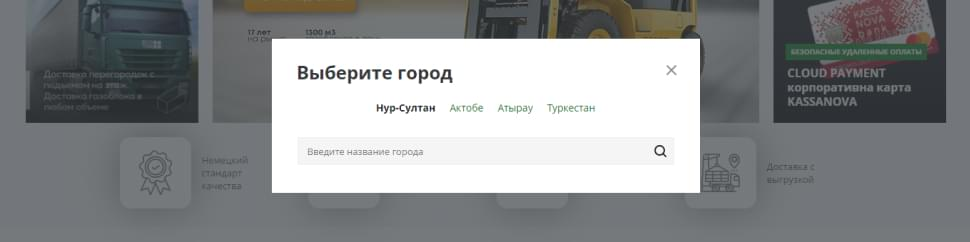
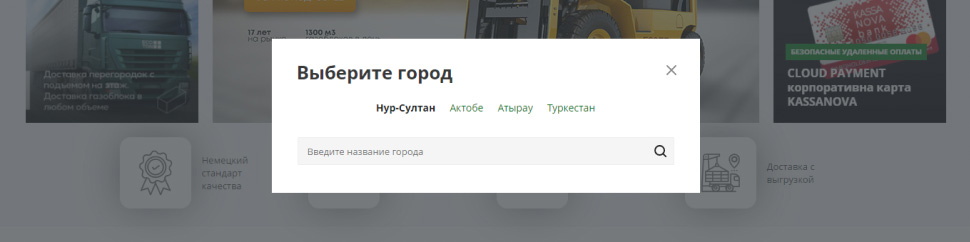
fix

Changed region(s): [[0.3711, 0.4339, 0.6186, 0.4628], [0.3093, 0.2893, 0.4639, 0.3471], [0.3711, 0.6074, 0.433, 0.6364]]

diff --git a/app/css/app.min.css b/app/css/app.min.css
@@ -1,1 +1,1 @@
-@font-face{font-family:Montserrat;src:url(../fonts/Montserrat-Thin.woff2),url(../fonts/Montserrat-Thin.woff) format("woff");font-weight:300;font-display:swap;font-style:normal}@font-face{font-family:Montserrat;src:url(../fonts/Montserrat-Regular.woff2),url(../fonts/Montserrat-Regular.woff) format("woff");font-weight:400;font-display:swap;font-style:normal}@font-face{font-family:Montserrat;src:url(../fonts/Montserrat-Medium.woff2),url(../fonts/Montserrat-Medium.woff) format("woff");font-weight:500;font-display:swap;font-style:normal}@font-face{font-family:Montserrat;src:url(../fonts/Montserrat-ExtraBold.woff2),url(../fonts/Montserrat-ExtraBold.woff) format("woff");font-weight:700;font-display:swap;font-style:normal}html{line-height:1.15;-webkit-text-size-adjust:100%}body{margin:0}main{display:block}h1{font-size:2em;margin:.67em 0}hr{-webkit-box-sizing:content-box;box-sizing:content-box;height:0;overflow:visible}pre{font-family:monospace,monospace;font-size:1em}a{background-color:transparent}abbr[title]{border-bottom:none;text-decoration:underline;-webkit-text-decoration:underline dotted;text-decoration:underline dotted}b,strong{font-weight:bolder}code,kbd,samp{font-family:monospace,monospace;font-size:1em}small{font-size:80%}sub,sup{font-size:75%;line-height:0;position:relative;vertical-align:baseline}sub{bottom:-.25em}sup{top:-.5em}img{border-style:none}button,input,optgroup,select,textarea{font-family:inherit;font-size:100%;line-height:1.15;margin:0}button,input{overflow:visible}button,select{text-transform:none}[type=button],[type=reset],[type=submit],button{-webkit-appearance:button}[type=button]::-moz-focus-inner,[type=reset]::-moz-focus-inner,[type=submit]::-moz-focus-inner,button::-moz-focus-inner{border-style:none;padding:0}[type=button]:-moz-focusring,[type=reset]:-moz-focusring,[type=submit]:-moz-focusring,button:-moz-focusring{outline:1px dotted ButtonText}fieldset{padding:.35em .75em .625em}legend{-webkit-box-sizing:border-box;box-sizing:border-box;color:inherit;display:table;max-width:100%;padding:0;white-space:normal}progress{vertical-align:baseline}textarea{overflow:auto}[type=checkbox],[type=radio]{-webkit-box-sizing:border-box;box-sizing:border-box;padding:0}[type=number]::-webkit-inner-spin-button,[type=number]::-webkit-outer-spin-button{height:auto}[type=search]{-webkit-appearance:textfield;outline-offset:-2px}[type=search]::-webkit-search-decoration{-webkit-appearance:none}::-webkit-file-upload-button{-webkit-appearance:button;font:inherit}details{display:block}summary{display:list-item}template{display:none}[hidden]{display:none}html{-webkit-box-sizing:border-box;box-sizing:border-box;overflow-x:hidden}*,:after,:before{-webkit-box-sizing:inherit;box-sizing:inherit;font-family:Montserrat,sans-serif;font-weight:400}a{text-decoration:none;color:inherit}li,ol,ul{list-style:none;margin:0;padding:0}p{margin:0;font-size:17px;font-weight:400;line-height:24px}h1,h2,h3,h4,h5,h6{margin:0;font-size:inherit}body{font-family:Montserrat,sans-serif;color:#363031;min-width:320px;position:relative;overflow-x:hidden}strong{font-weight:700}button{font-family:Montserrat;font-weight:600;cursor:pointer;border:none;background-color:transparent}button:focus{outline:0}img{max-width:100%}h1.title{font-size:60px;font-weight:700;line-height:73px}h2.title{font-weight:700;font-size:60px;line-height:73px}h3.title{font-weight:700;font-size:24px;line-height:28px}.container{max-width:1185px;padding:0 15px;margin:0 auto;overflow:hidden}.container-content{max-width:980px;padding:0 15px;margin:0 auto;overflow-x:hidden}.text{font-size:18px;font-weight:400;line-height:28px}.text--medium{font-weight:500;font-size:24px;line-height:36px}.btn{display:-webkit-box;display:-ms-flexbox;display:flex;color:#fff;width:270px;height:50px;-webkit-box-pack:center;-ms-flex-pack:center;justify-content:center;-webkit-box-align:center;-ms-flex-align:center;align-items:center;-webkit-transition:.2s ease-in-out;-o-transition:.2s ease-in-out;transition:.2s ease-in-out}.btn--green{background-color:#009645}.btn--green:hover{background-color:#45bd7d}.visually-hidden{position:absolute;clip:rect(0 0 0 0);width:1px;height:1px;margin:-1px}.hidden{position:relative;width:1px;height:1px;opacity:0;font-size:0}.intro{background-image:url(../images/src/intro-bg.jpg);background-size:cover;background-position:center;padding:160px 0 77px}.intro-main__inner{position:relative;max-width:970px;background:#fff;opacity:.8;-webkit-box-shadow:0 10px 20px rgba(0,0,0,.15);box-shadow:0 10px 20px rgba(0,0,0,.15);padding:85px 15px;margin:0 auto;text-align:center}.intro-main__inner::before{content:url(../images/src/brick.png);position:absolute;top:-135px;left:50%;-webkit-transform:translateX(-75%);-ms-transform:translateX(-75%);transform:translateX(-75%)}.intro-main__title{margin-bottom:15px}.intro-main__subtitle{position:relative;padding-bottom:30px;margin:0 auto 15px;max-width:770px;font-weight:700;font-size:22px;line-height:28px}.intro-main__subtitle:after{content:"";position:absolute;background-color:#363031;width:150px;height:2px;bottom:0;left:50%;-webkit-transform:translateX(-50%);-ms-transform:translateX(-50%);transform:translateX(-50%)}.intro-main__text{max-width:580px;margin:0 auto}.intro-main__link{display:inline-block;color:#009645;margin-top:53px;padding-left:35px;position:relative}.intro-main__link:before{content:"";position:absolute;top:-3px;left:0;background-image:url(../images/src/link.svg);width:21px;height:21px}.intro-main__link:hover{text-decoration:underline}.goals__inner{padding:15px 0 80px}.card{display:-webkit-box;display:-ms-flexbox;display:flex;-ms-flex-wrap:wrap;flex-wrap:wrap}.card__item{overflow:hidden;width:570px;height:570px;max-width:48%;margin:15px 15px 0 0;padding:0 100px;color:#fff}.card-item:first-child{background-color:#009645}.card-item:nth-child(2){background-color:#009645;padding:55px 60px 60px;display:-webkit-box;display:-ms-flexbox;display:flex;-webkit-box-pack:justify;-ms-flex-pack:justify;justify-content:space-between;-webkit-box-orient:vertical;-webkit-box-direction:normal;-ms-flex-direction:column;flex-direction:column;position:relative}.card-item:nth-child(2):hover .card-item__ecoton{-webkit-transform:scale(1.2);-ms-transform:scale(1.2);transform:scale(1.2)}.card-item:nth-child(2):hover::before{-webkit-transform:scale(1.2);-ms-transform:scale(1.2);transform:scale(1.2)}.card-item:nth-child(2)::before{content:'';position:absolute;top:0;left:0;width:100%;height:100%;background-image:url(../images/src/card-bg.jpg);-webkit-transition:all .7s;-o-transition:all .7s;transition:all .7s}.card-item:nth-child(3){background-image:url(../images/src/moon-bg.jpg);position:relative}.card-item:nth-child(3) img{position:absolute;bottom:0;right:0}.card-item:nth-child(4){background-color:#363031;color:#fff;height:inherit;display:-webkit-box;display:-ms-flexbox;display:flex;-webkit-box-orient:vertical;-webkit-box-direction:normal;-ms-flex-direction:column;flex-direction:column;-webkit-box-pack:justify;-ms-flex-pack:justify;justify-content:space-between}.card-item:nth-child(4) .card-item__title{margin-bottom:40px}.card-item:nth-child(4) .slider__text{max-width:270px;margin-top:30px}.card-item:nth-child(4) .slider__icon{border-radius:100%}.card-item__inner{display:-webkit-box;display:-ms-flexbox;display:flex;-webkit-box-orient:vertical;-webkit-box-direction:normal;-ms-flex-direction:column;flex-direction:column;-webkit-box-pack:center;-ms-flex-pack:center;justify-content:center;height:100%}.card-item__title{margin-bottom:35px}.card-item__ecoton{width:247px;margin:0 auto;z-index:2;-webkit-transition:all .7s;-o-transition:all .7s;transition:all .7s}.card-item__bottom{z-index:2}.card-item__bottom .card-top__span{display:-webkit-box;display:-ms-flexbox;display:flex;-webkit-box-orient:horizontal;-webkit-box-direction:reverse;-ms-flex-direction:row-reverse;flex-direction:row-reverse}.card-top{display:-webkit-box;display:-ms-flexbox;display:flex;-webkit-box-pack:justify;-ms-flex-pack:justify;justify-content:space-between;-webkit-box-align:center;-ms-flex-align:center;align-items:center;width:100%;z-index:2}.card-top__span{font-weight:300;font-size:42px;line-height:28px;color:#fff}.swiper-button-next:after{content:url(../images/src/slider-arrow.svg);width:16.5px}.swiper-container{max-width:400px}.start{background-image:url(../images/src/start-bg.jpg);background-repeat:no-repeat;background-size:cover}.start-top{padding-top:70px}.start-top__inner{display:-webkit-box;display:-ms-flexbox;display:flex;-webkit-box-pack:justify;-ms-flex-pack:justify;justify-content:space-between}.start-top__left{max-width:572px}.start-top__right{margin-top:auto}.start-top__title{margin-bottom:25px}.start-top__descr{margin-top:30px;font-family:Roboto,sans-serif}.start-top__logo{position:relative}.start-top__logo .logo-ecoton{position:absolute;top:50%;left:50%;-webkit-transform:translateX(-50%) translateY(-50%);-ms-transform:translateX(-50%) translateY(-50%);transform:translateX(-50%) translateY(-50%)}.start-top__logo .logo-wrap{-webkit-animation:rotate 10s linear infinite}.start .container-content{overflow:visible}.start .container-content__img{display:-webkit-box;display:-ms-flexbox;display:flex;-webkit-box-pack:center;-ms-flex-pack:center;justify-content:center;overflow:visible;z-index:5;-webkit-transform:translateY(65px);-ms-transform:translateY(65px);transform:translateY(65px)}.start .container-content__img img{overflow:visible;z-index:5;-webkit-box-shadow:0 4px 15px rgba(0,0,0,.15);box-shadow:0 4px 15px rgba(0,0,0,.15)}@-webkit-keyframes rotate{from{-webkit-transform:rotate(360deg);transform:rotate(360deg)}to{-webkit-transform:rotate(0);transform:rotate(0)}}@keyframes rotate{from{-webkit-transform:rotate(360deg);transform:rotate(360deg)}to{-webkit-transform:rotate(0);transform:rotate(0)}}.process .container{overflow:visible}.process__title{margin:145px 0 35px}.process__card .card-item:nth-child(4) .card-item__title{margin-bottom:0}.process-item__title{margin-bottom:0}.process-item__text{margin-top:12px}.process-item__images{margin:0 15px;-webkit-box-shadow:0 4px 15px rgba(0,0,0,.15);box-shadow:0 4px 15px rgba(0,0,0,.15);width:30%}.process-item__row{display:-webkit-box;display:-ms-flexbox;display:flex;-webkit-box-pack:center;-ms-flex-pack:center;justify-content:center}.process-item__container{max-width:785px;margin:0 auto}.process-item__container.process-item__text{margin:60px auto 60px}.process-item__container.card-item__inner{margin:45px auto 60px}.process-item__container.text{margin-top:60px;margin-bottom:50px;display:block;font-weight:700}.process-item__btn{margin:40px 0 80px;display:-webkit-box;display:-ms-flexbox;display:flex;-webkit-box-pack:center;-ms-flex-pack:center;justify-content:center}.process__wrapper--cream{background-color:#f9f9fa}.process__wrapper--cream .process-item{display:-webkit-box;display:-ms-flexbox;display:flex;position:relative}.process__wrapper--cream .process-item:nth-child(1){margin-bottom:60px}.process__wrapper--cream .process-item:nth-child(2) .card-item__inner{margin-bottom:100px}.process__wrapper--cream .process-item:nth-child(2) .process-item__right-image{top:78px}.process__wrapper--cream .process-item:nth-child(2) .process__tablet{top:115px}.process__wrapper--cream .process-item__content{max-width:357px;margin:80px 0 0 100px}.process__wrapper--cream .process-item__title{max-width:255px;line-height:32px!important}.process__wrapper--cream .process-item__block--green{position:relative;margin-top:65px;margin-left:60px;z-index:3px}.process__wrapper--cream .process-item__block--green .text{padding:30px 30px 35px;background-color:#009645;color:#fff;font-size:14px;font-weight:700;max-width:600px}.process__wrapper--cream .process-item__right-image{position:absolute;overflow:visible;top:180px;right:-215px;min-width:885px;height:auto}.process__wrapper--cream .process__tablet{position:absolute;bottom:-90px}.process__wrapper--cream .process__worker{position:absolute;top:93px;right:-48px}.process__wrapper--cream .process__truck{position:absolute;bottom:-60px;right:-41px}.process-list__item{padding-left:65px;position:relative;margin-bottom:35px}.process-list__item:hover::before{-webkit-transform:scale(1.3);-ms-transform:scale(1.3);transform:scale(1.3)}.process-list__item:before{content:"";position:absolute;top:-6px;left:0;width:50px;height:45px;background-repeat:no-repeat;-webkit-transition:.2s;-o-transition:.2s;transition:.2s}.process-list__item:nth-child(1)::before{background-image:url(../images/src/icon-optimization-1.svg)}.process-list__item:nth-child(2)::before{background-image:url(../images/src/icon-optimization-2.svg)}.process-list__item:nth-child(3)::before{background-image:url(../images/src/icon-optimization-3.svg)}.process-list__item:nth-child(4)::before{top:-1px;background-image:url(../images/src/icon-optimization-4.svg)}.process-list__item:nth-child(5)::before{background-image:url(../images/src/icon-optimization-5.svg)}.card-item:nth-child(2):hover .card-item__aspro{-webkit-transform:scale(1.2);-ms-transform:scale(1.2);transform:scale(1.2)}.card-item__number{font-family:Roboto;font-weight:700;font-size:42px;line-height:28px;margin-bottom:30px}.card-item__text--bold{font-size:18px;line-height:28px}.card-item__text{margin-top:22px}.card-item__aspro{display:-webkit-box;display:-ms-flexbox;display:flex;-webkit-box-pack:center;-ms-flex-pack:center;justify-content:center;-webkit-box-align:center;-ms-flex-align:center;align-items:center;-webkit-transition:.7s;-o-transition:.7s;transition:.7s;height:inherit}.card-item__aspro img{width:135px;z-index:2}.result{background-image:url(../images/src/footer-bg.jpg);background-repeat:no-repeat;background-size:cover}.result__inner{padding:65px 0 120px}.result__title{margin-bottom:25px;font-family:Roboto,sans-serif;font-weight:700;font-size:60px;line-height:70px;color:#000}.result__text{font-family:Roboto;font-weight:500;font-size:24px;line-height:36px;color:#000;margin-bottom:55px}.result__logo{display:block;margin-top:120px;margin-left:-20px}.result__btn{margin:0 auto}
+@font-face{font-family:Montserrat;src:url(../fonts/Montserrat-Thin.woff2),url(../fonts/Montserrat-Thin.woff) format("woff");font-weight:300;font-display:swap;font-style:normal}@font-face{font-family:Montserrat;src:url(../fonts/Montserrat-Regular.woff2),url(../fonts/Montserrat-Regular.woff) format("woff");font-weight:400;font-display:swap;font-style:normal}@font-face{font-family:Montserrat;src:url(../fonts/Montserrat-Medium.woff2),url(../fonts/Montserrat-Medium.woff) format("woff");font-weight:500;font-display:swap;font-style:normal}@font-face{font-family:Montserrat;src:url(../fonts/Montserrat-ExtraBold.woff2),url(../fonts/Montserrat-ExtraBold.woff) format("woff");font-weight:700;font-display:swap;font-style:normal}html{line-height:1.15;-webkit-text-size-adjust:100%}body{margin:0}main{display:block}h1{font-size:2em;margin:.67em 0}hr{-webkit-box-sizing:content-box;box-sizing:content-box;height:0;overflow:visible}pre{font-family:monospace,monospace;font-size:1em}a{background-color:transparent}abbr[title]{border-bottom:none;text-decoration:underline;-webkit-text-decoration:underline dotted;text-decoration:underline dotted}b,strong{font-weight:bolder}code,kbd,samp{font-family:monospace,monospace;font-size:1em}small{font-size:80%}sub,sup{font-size:75%;line-height:0;position:relative;vertical-align:baseline}sub{bottom:-.25em}sup{top:-.5em}img{border-style:none}button,input,optgroup,select,textarea{font-family:inherit;font-size:100%;line-height:1.15;margin:0}button,input{overflow:visible}button,select{text-transform:none}[type=button],[type=reset],[type=submit],button{-webkit-appearance:button}[type=button]::-moz-focus-inner,[type=reset]::-moz-focus-inner,[type=submit]::-moz-focus-inner,button::-moz-focus-inner{border-style:none;padding:0}[type=button]:-moz-focusring,[type=reset]:-moz-focusring,[type=submit]:-moz-focusring,button:-moz-focusring{outline:1px dotted ButtonText}fieldset{padding:.35em .75em .625em}legend{-webkit-box-sizing:border-box;box-sizing:border-box;color:inherit;display:table;max-width:100%;padding:0;white-space:normal}progress{vertical-align:baseline}textarea{overflow:auto}[type=checkbox],[type=radio]{-webkit-box-sizing:border-box;box-sizing:border-box;padding:0}[type=number]::-webkit-inner-spin-button,[type=number]::-webkit-outer-spin-button{height:auto}[type=search]{-webkit-appearance:textfield;outline-offset:-2px}[type=search]::-webkit-search-decoration{-webkit-appearance:none}::-webkit-file-upload-button{-webkit-appearance:button;font:inherit}details{display:block}summary{display:list-item}template{display:none}[hidden]{display:none}html{-webkit-box-sizing:border-box;box-sizing:border-box;overflow-x:hidden}*,:after,:before{-webkit-box-sizing:inherit;box-sizing:inherit;font-family:Montserrat,sans-serif;font-weight:400}a{text-decoration:none;color:inherit}li,ol,ul{list-style:none;margin:0;padding:0}p{margin:0;font-size:17px;font-weight:400;line-height:24px}h1,h2,h3,h4,h5,h6{margin:0;font-size:inherit}body{font-family:Montserrat,sans-serif;color:#363031;min-width:320px;position:relative;overflow-x:hidden}strong{font-weight:700}button{font-family:Montserrat;font-weight:600;cursor:pointer;border:none;background-color:transparent}button:focus{outline:0}img{max-width:100%}h1.title{font-size:60px;font-weight:700;line-height:73px}h2.title{font-weight:700;font-size:60px;line-height:73px}h3.title{font-weight:700;font-size:24px;line-height:28px}.container{max-width:1185px;padding:0 15px;margin:0 auto;overflow:hidden}.container-content{max-width:980px;padding:0 15px;margin:0 auto;overflow-x:hidden}.text{font-family:Roboto,sans-serif;font-size:18px;font-weight:400;line-height:28px}.text--medium{font-family:Roboto,sans-serif;font-weight:500;font-size:24px;line-height:36px}.btn{display:-webkit-box;display:-ms-flexbox;display:flex;color:#fff;width:270px;height:50px;-webkit-box-pack:center;-ms-flex-pack:center;justify-content:center;-webkit-box-align:center;-ms-flex-align:center;align-items:center;-webkit-transition:.2s ease-in-out;-o-transition:.2s ease-in-out;transition:.2s ease-in-out}.btn--green{background-color:#009645}.btn--green:hover{background-color:#45bd7d}.intro{background-image:url(../images/src/intro-bg.jpg);background-size:cover;background-position:center;padding:160px 0 77px}.intro-main__inner{position:relative;max-width:970px;background:#fff;opacity:.8;-webkit-box-shadow:0 10px 20px rgba(0,0,0,.15);box-shadow:0 10px 20px rgba(0,0,0,.15);padding:85px 15px;margin:0 auto;text-align:center}.intro-main__inner::before{content:url(../images/src/brick.png);position:absolute;top:-135px;left:50%;-webkit-transform:translateX(-75%);-ms-transform:translateX(-75%);transform:translateX(-75%)}.intro-main__title{margin-bottom:15px}.intro-main__subtitle{position:relative;padding-bottom:30px;margin:0 auto 15px;max-width:770px;font-weight:700;font-size:22px;line-height:28px}.intro-main__subtitle:after{content:"";position:absolute;background-color:#363031;width:150px;height:2px;bottom:0;left:50%;-webkit-transform:translateX(-50%);-ms-transform:translateX(-50%);transform:translateX(-50%)}.intro-main__text{max-width:580px;margin:0 auto;font-size:16px}.intro-main__link{display:inline-block;color:#009645;margin-top:53px;padding-left:35px;position:relative}.intro-main__link:before{content:"";position:absolute;top:-3px;left:0;background-image:url(../images/src/link.svg);width:21px;height:21px}.intro-main__link:hover{text-decoration:underline}.goals__inner{padding:15px 0 80px}.card{display:-webkit-box;display:-ms-flexbox;display:flex;-ms-flex-wrap:wrap;flex-wrap:wrap}.card__item{overflow:hidden;width:570px;height:570px;max-width:48%;margin:15px 15px 0 0;padding:0 100px;color:#fff}.card-item__text{margin-top:0}.card-item:first-child{background-color:#009645}.card-item:nth-child(2){background-color:#009645;padding:55px 60px 60px;display:-webkit-box;display:-ms-flexbox;display:flex;-webkit-box-pack:justify;-ms-flex-pack:justify;justify-content:space-between;-webkit-box-orient:vertical;-webkit-box-direction:normal;-ms-flex-direction:column;flex-direction:column;position:relative}.card-item:nth-child(2):hover .card-item__ecoton{-webkit-transform:scale(1.2);-ms-transform:scale(1.2);transform:scale(1.2)}.card-item:nth-child(2):hover::before{-webkit-transform:scale(1.2);-ms-transform:scale(1.2);transform:scale(1.2)}.card-item:nth-child(2)::before{content:'';position:absolute;top:0;left:0;width:100%;height:100%;background-image:url(../images/src/card-bg.jpg);-webkit-transition:all .7s;-o-transition:all .7s;transition:all .7s}.card-item:nth-child(3){background-image:url(../images/src/moon-bg.jpg);position:relative}.card-item:nth-child(3) img{position:absolute;bottom:0;right:0}.card-item:nth-child(4){background-color:#363031;color:#fff;height:inherit;display:-webkit-box;display:-ms-flexbox;display:flex;-webkit-box-orient:vertical;-webkit-box-direction:normal;-ms-flex-direction:column;flex-direction:column;-webkit-box-pack:justify;-ms-flex-pack:justify;justify-content:space-between}.card-item:nth-child(4) .card-item__title{margin-bottom:40px}.card-item:nth-child(4) .slider__text{max-width:270px;margin-top:30px}.card-item:nth-child(4) .slider__icon{border-radius:100%}.card-item__inner{display:-webkit-box;display:-ms-flexbox;display:flex;-webkit-box-orient:vertical;-webkit-box-direction:normal;-ms-flex-direction:column;flex-direction:column;-webkit-box-pack:center;-ms-flex-pack:center;justify-content:center;height:100%}.card-item__title{margin-bottom:35px}.card-item__ecoton{width:247px;margin:0 auto;z-index:2;-webkit-transition:all .7s;-o-transition:all .7s;transition:all .7s}.card-item__bottom{z-index:2}.card-item__bottom .card-top__span{display:-webkit-box;display:-ms-flexbox;display:flex;-webkit-box-orient:horizontal;-webkit-box-direction:reverse;-ms-flex-direction:row-reverse;flex-direction:row-reverse}.card-top{display:-webkit-box;display:-ms-flexbox;display:flex;-webkit-box-pack:justify;-ms-flex-pack:justify;justify-content:space-between;-webkit-box-align:center;-ms-flex-align:center;align-items:center;width:100%;z-index:2}.card-top__span{font-weight:300;font-size:42px;line-height:28px;color:#fff}.swiper-button-next:after{content:url(../images/src/slider-arrow.svg);width:16.5px}.swiper-container{max-width:400px}.start{background-image:url(../images/src/start-bg.jpg);background-repeat:no-repeat;background-size:cover}.start-top{padding-top:70px}.start-top__inner{display:-webkit-box;display:-ms-flexbox;display:flex;-webkit-box-pack:justify;-ms-flex-pack:justify;justify-content:space-between}.start-top__left{max-width:572px}.start-top__right{margin-top:auto}.start-top__title{margin-bottom:25px}.start-top__descr{margin-top:30px;font-family:Roboto,sans-serif}.start-top__logo{position:relative}.start-top__logo .logo-ecoton{position:absolute;top:50%;left:50%;-webkit-transform:translateX(-50%) translateY(-50%);-ms-transform:translateX(-50%) translateY(-50%);transform:translateX(-50%) translateY(-50%)}.start-top__logo .logo-wrap{-webkit-animation:rotate 10s linear infinite}.start .container-content{overflow:visible}.start .container-content__img{display:-webkit-box;display:-ms-flexbox;display:flex;-webkit-box-pack:center;-ms-flex-pack:center;justify-content:center;overflow:visible;z-index:5;-webkit-transform:translateY(65px);-ms-transform:translateY(65px);transform:translateY(65px)}.start .container-content__img img{overflow:visible;z-index:5;-webkit-box-shadow:0 4px 15px rgba(0,0,0,.15);box-shadow:0 4px 15px rgba(0,0,0,.15)}@-webkit-keyframes rotate{from{-webkit-transform:rotate(360deg);transform:rotate(360deg)}to{-webkit-transform:rotate(0);transform:rotate(0)}}@keyframes rotate{from{-webkit-transform:rotate(360deg);transform:rotate(360deg)}to{-webkit-transform:rotate(0);transform:rotate(0)}}.process .container{overflow:visible}.process__title{margin:145px 0 35px}.process__card .card-item:nth-child(4) .card-item__title{margin-bottom:0}.process-item__title{margin-bottom:0}.process-item__text{margin-top:12px}.process-item__images{margin:0 15px;-webkit-box-shadow:0 4px 15px rgba(0,0,0,.15);box-shadow:0 4px 15px rgba(0,0,0,.15);width:30%}.process-item__row{display:-webkit-box;display:-ms-flexbox;display:flex;-webkit-box-pack:center;-ms-flex-pack:center;justify-content:center}.process-item__container{max-width:785px;margin:0 auto}.process-item__container.process-item__text{font-family:Roboto,sans-serif;font-size:18px;margin:60px auto 60px}.process-item__container.card-item__inner{margin:45px auto 60px}.process-item__container.text{margin-top:60px;margin-bottom:50px;display:block;font-weight:700}.process-item__btn{margin:40px 0 80px;display:-webkit-box;display:-ms-flexbox;display:flex;-webkit-box-pack:center;-ms-flex-pack:center;justify-content:center}.process__wrapper--cream{background-color:#f9f9fa}.process__wrapper--cream .process-item{display:-webkit-box;display:-ms-flexbox;display:flex;position:relative}.process__wrapper--cream .process-item:nth-child(1){margin-bottom:60px}.process__wrapper--cream .process-item:nth-child(2) .card-item__inner{margin-bottom:100px}.process__wrapper--cream .process-item:nth-child(2) .process-item__right-image{top:78px}.process__wrapper--cream .process-item:nth-child(2) .process__tablet{top:115px}.process__wrapper--cream .process-item__content{max-width:357px;margin:80px 0 0 100px}.process__wrapper--cream .process-item__title{max-width:255px;line-height:32px!important}.process__wrapper--cream .process-item__block--green{position:relative;margin-top:65px;margin-left:60px;z-index:3px}.process__wrapper--cream .process-item__block--green .text{padding:30px 30px 35px;background-color:#009645;color:#fff;font-size:14px;font-weight:700;max-width:600px}.process__wrapper--cream .process-item__right-image{position:absolute;overflow:visible;top:180px;right:-215px;min-width:885px;height:auto}.process__wrapper--cream .process__tablet{position:absolute;bottom:-90px}.process__wrapper--cream .process__worker{position:absolute;top:93px;right:-48px}.process__wrapper--cream .process__truck{position:absolute;bottom:-45px;right:-41px}.process-list__item{padding-left:65px;position:relative;margin-bottom:35px}.process-list__item:hover::before{-webkit-transform:scale(1.3);-ms-transform:scale(1.3);transform:scale(1.3)}.process-list__item:before{content:"";position:absolute;top:-6px;left:0;width:50px;height:45px;background-repeat:no-repeat;-webkit-transition:.2s;-o-transition:.2s;transition:.2s}.process-list__item:nth-child(1)::before{background-image:url(../images/src/icon-optimization-1.svg)}.process-list__item:nth-child(2)::before{background-image:url(../images/src/icon-optimization-2.svg)}.process-list__item:nth-child(3)::before{background-image:url(../images/src/icon-optimization-3.svg)}.process-list__item:nth-child(4)::before{top:-1px;background-image:url(../images/src/icon-optimization-4.svg)}.process-list__item:nth-child(5)::before{background-image:url(../images/src/icon-optimization-5.svg)}.card__item:nth-child(1) .card-item__text--small{font-size:14px}.card-item:nth-child(2):hover .card-item__aspro{-webkit-transform:scale(1.2);-ms-transform:scale(1.2);transform:scale(1.2)}.card-item__number{font-family:Roboto;font-weight:700;font-size:42px;line-height:28px;margin-bottom:30px}.card-item__text--bold{font-size:18px;line-height:28px}.card-item__text{margin-top:22px}.card-item__aspro{display:-webkit-box;display:-ms-flexbox;display:flex;-webkit-box-pack:center;-ms-flex-pack:center;justify-content:center;-webkit-box-align:center;-ms-flex-align:center;align-items:center;-webkit-transition:.7s;-o-transition:.7s;transition:.7s;height:inherit}.card-item__aspro img{width:135px;z-index:2}.card-item__text--bold{margin-top:25px}.result{background-image:url(../images/src/footer-bg.jpg);background-repeat:no-repeat;background-size:cover}.result__inner{padding:65px 0 120px}.result__title{margin-bottom:25px;font-family:Roboto,sans-serif;font-weight:700;font-size:60px;line-height:70px;color:#000}.result__text{font-family:Roboto;font-weight:500;font-size:24px;line-height:36px;color:#000;margin-bottom:55px}.result__logo{display:block;margin-top:120px;margin-left:-20px}.result__btn{margin:0 auto}

diff --git a/app/index.html b/app/index.html
@@ -12,6 +12,8 @@
 </head>
 <body>
 
+
+
 <main class="main">
 	<section class="intro intro-main">
 		<div class="intro-main__inner">
@@ -19,7 +21,7 @@
 			<h2 class="intro-main__subtitle">Разработка интернет-магазина на системе управления <br> 1С-Битрикс с расчетом доставки товара до конечной точки</h2>
 			<p class="intro-main__text">АО «Экотон+» – холдинговая компания, основные предприятия которой производят стеновые материалы из ячеистого бетона
 			автоклавного твердения или, если говорить проще, «газобетон»</p>
-			<a href="https://ecoton.kz/" class="intro-main__link" target="_blank">ecoton.kz</a>
+			<a href="https://ecoton.kz/" class="intro-main__link" target="_blank" rel="noopener">ecoton.kz</a>
 		</div>
 	</section>
 
@@ -30,7 +32,7 @@
 				<div class="card__item card-item">
 					<div class="card-item__inner">
 						<h2 class="card-item__title title">Цель проекта</h2>
-						<p class="card-item__text">Увеличить прибыль компании за счет увеличения продаж через интернет-магазин, который будет работать 24/7.</p>
+						<p class="card-item__text text">Увеличить прибыль компании за счет увеличения продаж через интернет-магазин, который будет работать 24/7.</p>
 					</div>
 				</div>
 
@@ -59,17 +61,17 @@
 
 								<div class="swiper-slide">
 									<img class="slider__icon" src="./images/src/slider-icon-1.svg" alt="slider-icon">
-									<p class="slider__text">Отображать актуальный каталог продукции в зависимости от выбранного на сайте города.</p>
+									<p class="slider__text text">Отображать актуальный каталог продукции в зависимости от выбранного на сайте города.</p>
 								</div>
 
 								<div class="swiper-slide">
 									<img class="slider__icon" src="./images/src/slider-icon-1.svg" alt="slider-icon">
-									<p class="slider__text">Далеко-далеко за словесными горами в стране гласных и согласных живут рыбные тексты.</p>
+									<p class="slider__text text">Далеко-далеко за словесными горами в стране гласных и согласных живут рыбные тексты.</p>
 								</div>
 
 								<div class="swiper-slide">
 									<img class="slider__icon" src="./images/src/slider-icon-1.svg" alt="slider-icon">
-									<p class="slider__text">Lorem ipsum dolor sit amet consectetur adipisicing elit. Officia, nostrum? Lorem ipsum dolor sit amet consectetur adipisicing.</p>
+									<p class="slider__text text">Lorem ipsum dolor sit amet consectetur adipisicing elit. Officia, nostrum? Lorem ipsum dolor sit amet consectetur adipisicing.</p>
 								</div>
 
 							</div>
@@ -104,7 +106,7 @@
 				</div>
 			</div>
 			<div class="container-content__img">
-				<img src="./images/src/design-1.jpg" alt="eco-design">
+				<img src="./images/src/design-1.jpg" loading="lazy" alt="eco-design">
 			</div>
 		</div>
 	</section>
@@ -119,7 +121,7 @@
 						<span class="card-item__number process-item__number">01.</span>
 						<h3 class="card-item__title process-item__title title">Выбор готового решения</h3>
 						<b class="card-item__text--bold process-item__text--bold">Учитывая задачи, которые должен решать сайт, мы начали реализацию проекта на основе готового решения Next.</b>
-						<p class="card-item__text process-item__text">*Next – это универсальный интернет-магазин для товаров любой тематики с полноценной мультирегиональностью и посадочными
+						<p class="card-item__text card-item__text--small process-item__text">*Next – это универсальный интернет-магазин для товаров любой тематики с полноценной мультирегиональностью и посадочными
 						страницами для каталога. Создан с учетом всех потребностей проектов, которые планируют развиваться и масштабироваться.</p>
 					</div>
 				</div>
@@ -138,7 +140,7 @@
 					<div class="card-item__inner process-item__content">
 						<span class="card-item__number process-item__number">02.</span>
 						<h3 class="card-item__title process-item__title title">Разработка структуры сайта и сбор контента</h3>
-						<p class="card-item__text process-item__text">Работы по сайту мы начали с разработки структуры будущего сайта.
+						<p class="card-item__text process-item__text text">Работы по сайту мы начали с разработки структуры будущего сайта.
 						Выявили необходимые разделы на сайте и предоставили Заказчику полный список информации, который необходимо предоставить
 						для наполнения сайта.</p>
 					</div>
@@ -149,7 +151,7 @@
 				<div class="card-item__inner process-item__content process-item__container">
 					<span class="card-item__number process-item__number">03.</span>
 					<h3 class="card-item__title process-item__title title">Работы на готовом решении</h3>
-					<p class="card-item__text process-item__text">После предоставления контента для наполнения сайта мы развернули готовое решение и выставили все настройки и параметры
+					<p class="card-item__text process-item__text text">После предоставления контента для наполнения сайта мы развернули готовое решение и выставили все настройки и параметры
 					сайта, которые согласовали ранее с заказчиком и наполнили сайт предоставленной информацией.</p>
 				</div>
 				<div class="process-item__row">
@@ -157,7 +159,7 @@
 					<img src="./images/src/design-3.png" alt="Настройки готовых решений" class="process-item__images">
 					<img src="./images/src/design-4.png" alt="Настройки готовых решений" class="process-item__images">
 				</div>
-					<p class="card-item__text process-item__text process-item__container">АО «Экотон+» работает в нескольких городах, поэтому мы настроили функционал мультирегиональности по городам: Нур-Султан,
+					<p class="card-item__text card-item__text process-item__text process-item__container">АО «Экотон+» работает в нескольких городах, поэтому мы настроили функционал мультирегиональности по городам: Нур-Султан,
 					Актобе, Атырау, Туркестан. Данный функционал позволяет посетителям сайта видеть актуальную контактную информацию,
 					торговый каталог с актуальными ценами в зависимости от их местоположения, а также рассчитать более точно стоимость
 					доставки.</p>
@@ -173,16 +175,16 @@
 					<div class="card-item__inner process-item__content">
 						<span class="card-item__number process-item__number">04.</span>
 						<h3 class="card-item__title process-item__title title">Доработка расчета стоимости доставки</h3>
-						<p class="card-item__text process-item__text">При оформлении заказа в интернет-магазине на основе объема закупаемого товара (количества паллет с газобетоном) и
+						<p class="card-item__text process-item__text text">При оформлении заказа в интернет-магазине на основе объема закупаемого товара (количества паллет с газобетоном) и
 						выбранного города для доставки при формировании заказа алгоритм выдает все возможные виды доставки. Вид транспорта
 						определяется автоматически: это может быть длинномер, фотон, манипулятор. Сумма доставки добавляется в заказ отдельной
 						строкой, что позволяет увидеть стоимость доставки в итоговом чеке.</p>
 					</div>
 					<div class="process-item__right">
 						<img src="./images/src/moon-bg.jpg" alt="background-image" class="process-item__right-image">
-						<img src="./images/src/tablet.png" loading="lazy" alt="tablet" class="process__tablet">
-						<img src="./images/src/truck.png" loading="lazy" alt="truck" class="process__truck">
-						<div class="process-item__block--green" data-aos="fade-left" data-aos-duration="1500">
+						<img src="./images/src/tablet.png" loading="lazy" alt="tablet" class="process__tablet" data-aos-duration="1000" data-aos="fade-left" data-aos-delay="300">
+						<img src="./images/src/truck.png" loading="lazy" alt="truck" class="process__truck" data-aos-duration="1000" data-aos="fade-left" data-aos-delay="700">
+						<div class="process-item__block--green" data-aos="fade-left" data-aos-duration="1000">
 							<p class="text">Поскольку расчет стоимости доставки газоблоков имеет свою специфику и стандартные модули доставки не могут корректно
 							рассчитать и выдать стоимость на этапе формирования заказа, мы написали собственный алгоритм расчета стоимости.</p>
 						</div>
@@ -192,14 +194,14 @@
 					<div class="card-item__inner process-item__content">
 						<span class="card-item__number process-item__number">05.</span>
 						<h3 class="card-item__title process-item__title title">Тестирование и перенос сайта на домен ecoton.kz</h3>
-						<p class="card-item__text process-item__text">После наполнения сайта контентом, настройки необходимого функционала и завершения доработок по сайту, мы провели его
+						<p class="card-item__text process-item__text text">После наполнения сайта контентом, настройки необходимого функционала и завершения доработок по сайту, мы провели его
 						финальное тестирование, прогнав различные сценарии использования. На основе итогов тестирования внесли корректировки в
 						алгоритм доставки и перенесли сайт на основной домен ecoton.kz</p>
 					</div>
 					<div class="process-item__right">
 						<img src="./images/src/moon-bg.jpg" alt="background-image" class="process-item__right-image">
-						<img src="./images/src/tablet-2.png" loading="lazy" alt="tablet" class="process__tablet">
-						<img src="./images/src/worker.png" loading="lazy" alt="worker" class="process__worker">
+						<img src="./images/src/tablet-2.png" loading="lazy" alt="tablet" class="process__tablet" data-aos-duration="1000" data-aos="fade-left" data-aos-delay="300">
+						<img src="./images/src/worker.png" loading="lazy" alt="worker" class="process__worker" data-aos-duration="1000" data-aos="fade-left" data-aos-delay="700">
 					</div>
 				</div>
 			</div>
@@ -207,19 +209,19 @@
 				<div class="card-item__inner process-item__content process-item__container">
 					<span class="card-item__number process-item__number">06.</span>
 					<h3 class="card-item__title process-item__title title">Интеграция сайта с CRM-системой Bitrix24</h3>
-					<p class="card-item__text process-item__text">Клиент оформляет заказ, заказывает обратный звонок с сайта или заполняет форму «Задать вопрос», а все его контакты сразу
+					<p class="card-item__text process-item__text text">Клиент оформляет заказ, заказывает обратный звонок с сайта или заполняет форму «Задать вопрос», а все его контакты сразу
 					же попадают в CRM-систему, где команда отдела продаж продолжает работу с клиентом. Данные о клиентах не теряются и
 					руководство всегда в курсе текущей ситуации.</p>
 				</div>
 				<div class="process-item__row">
-					<img src="./images/src/design-5.jpg" loading="lazy" alt="design image" class="process-item__absolute" loading="lazy">
+					<img src="./images/src/design-5.jpg" loading="lazy" alt="design image" class="process-item__absolute">
 				</div>
 			</div>
 			<div class="process-item">
 				<div class="card-item__inner process-item__content process-item__container">
 					<span class="card-item__number process-item__number">07.</span>
 					<h3 class="card-item__title process-item__title title">Оптимизация и настройка аналитики</h3>
-					<p class="card-item__text process-item__text">После запуска сайта на домене ecoton.kz мы произвели работы по базовой оптимизации, включающие:</p>
+					<p class="card-item__text process-item__text text">После запуска сайта на домене ecoton.kz мы произвели работы по базовой оптимизации, включающие:</p>
 				</div>
 				<ul class="process-item__list process-list process-item__container">
 					<li class="process-list__item">
@@ -256,7 +258,7 @@
 			<p class="result__text text">Нам удалось разработать сайт, который автоматизирует процесс продаж и в разы сокращает время менеджеров на расчет
 			стоимости доставки и обработку заказов.</p>
 			<a href="javascript:;" class="btn result__btn btn--green dev_leave_request gtm_leftform_call">Хочу такой сайт</a>
-			<img src="./images/src/ecoton-footer.png" alt="ecoton" data-aos="fade-down" data-aos-duration="1500" class="result__logo">
+			<img src="./images/src/ecoton-footer.png" alt="ecoton" data-aos="fade-down" data-aos-duration="1500" data-aos-delay="300" class="result__logo">
 		</div>
 	</section>
 		<!-- ./ result -->

diff --git a/app/sass/blocks/process.scss b/app/sass/blocks/process.scss
@@ -32,6 +32,8 @@
       max-width: 785px;
       margin: 0 auto;
       &.process-item__text {
+        font-family: 'Roboto', sans-serif;
+        font-size: 18px;
         margin: 60px auto 60px;
       }
       &.card-item__inner {
@@ -101,16 +103,6 @@
           height: auto;
       }
       &__right {
-        // position: relative;
-        // &:before {
-        //   content: '';
-        //   background-image: url('../images/src/tablet.png');
-        //   background-repeat: no-repeat;
-        //   width: 100%;
-        //   height: auto;
-        //   top: 0;
-        //   right: 0;
-        // }
       }
     }
     .process__tablet {
@@ -124,7 +116,7 @@
     }
     .process__truck {
       position: absolute;
-      bottom: -60px;
+      bottom: -45px;
       right: -41px;
     }
   }
@@ -168,6 +160,11 @@
 }
 
 .card {
+  &__item:nth-child(1) {
+    .card-item__text--small {
+      font-size: 14px;
+    }
+  }
   &-item {
     &:nth-child(2):hover {
       .card-item__aspro {
@@ -201,3 +198,5 @@
     }
   }
 }
+
+.card-item__text--bold{margin-top: 25px;}

diff --git a/app/sass/global.scss b/app/sass/global.scss
@@ -101,12 +101,14 @@ h3.title {
 }
 
 .text {
+    font-family: 'Roboto', sans-serif;
     font-size: 18px;
     font-weight: 400;
     line-height: 28px;
 }
 
 .text--medium {
+    font-family: 'Roboto', sans-serif;
     font-weight: 500;
     font-size: 24px;
     line-height: 36px;
@@ -126,20 +128,4 @@ h3.title {
             background-color: $green-hover;
         }
     }
-}
-
-.visually-hidden {
-  position: absolute;
-  clip: rect(0 0 0 0);
-  width: 1px;
-  height: 1px;
-  margin: -1px;
-}
-
-.hidden {
-    position: relative;
-    width: 1px;
-    height: 1px;
-    opacity: 0;
-    font-size: 0;
 }

diff --git a/app/sass/blocks/goals.scss b/app/sass/blocks/goals.scss
@@ -18,6 +18,11 @@
     }
 
     &-item {
+
+        &__text {
+            margin-top: 0;
+        }
+        
         &:first-child {
             background-color: $green;
         }

diff --git a/app/sass/blocks/intro.scss b/app/sass/blocks/intro.scss
@@ -45,6 +45,7 @@
     &__text {
       max-width: 580px;
       margin: 0 auto;
+      font-size: 16px;
     }
     &__link {
       display: inline-block;
